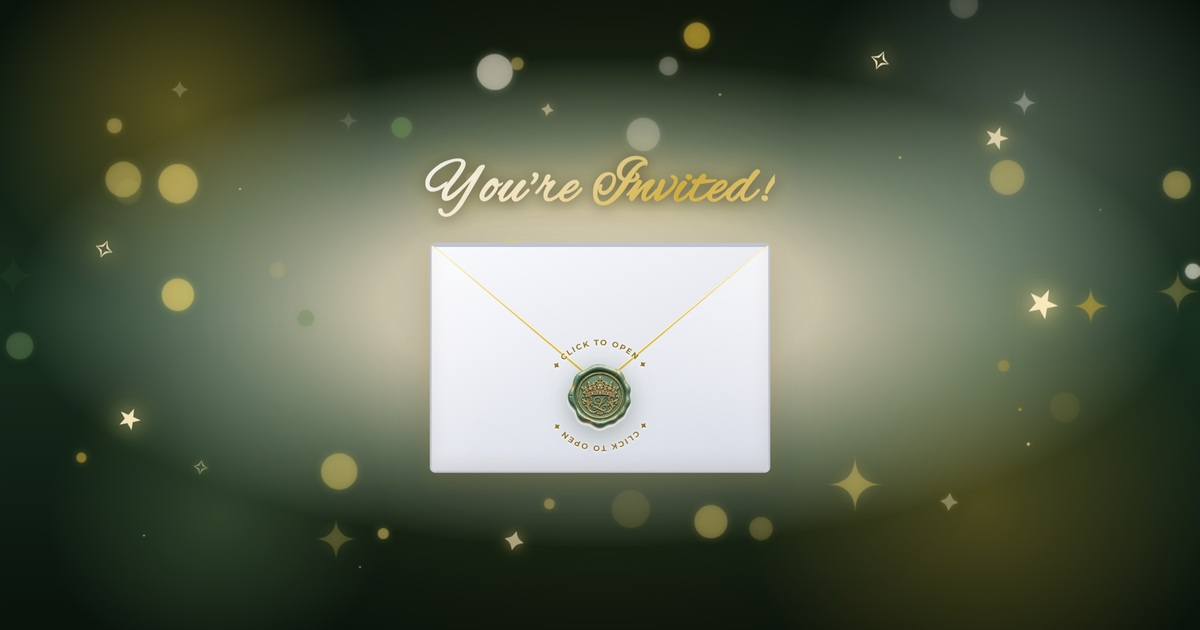
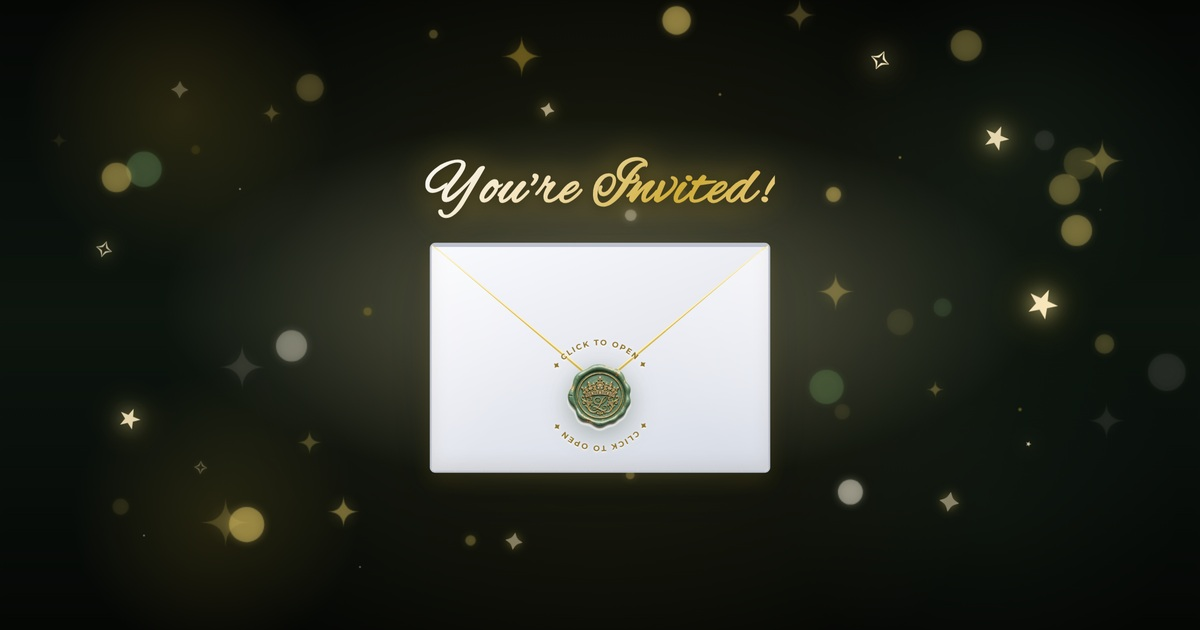
Darken landing page background closer to black with warm gold bokeh and update OG preview

diff --git a/dianalucero/style.css b/dianalucero/style.css
@@ -2915,17 +2915,17 @@ body.site-entered .site-footer p {
   align-items: center !important;
   justify-content: center !important;
   overflow: hidden !important;
-  background-color: #0c1810 !important;
+  background-color: #070b08 !important;
   background-image:
-    /* Luminous warm champagne & candle glow halo behind the envelope */
-    radial-gradient(ellipse 65% 52% at 50% 48%, rgba(255, 250, 238, 0.95) 0%, rgba(247, 236, 215, 0.78) 28%, rgba(207, 223, 197, 0.40) 52%, transparent 75%),
-    /* Shimmering warm golden & sage gala bokeh spheres */
-    radial-gradient(circle 280px at 15% 18%, rgba(212, 175, 55, 0.38) 0%, transparent 70%),
-    radial-gradient(circle 320px at 85% 22%, rgba(207, 223, 197, 0.32) 0%, transparent 70%),
-    radial-gradient(circle 240px at 18% 82%, rgba(104, 138, 88, 0.35) 0%, transparent 70%),
-    radial-gradient(circle 340px at 82% 80%, rgba(212, 175, 55, 0.30) 0%, transparent 70%),
-    /* Deep rich emerald and forest velvet base gradient */
-    linear-gradient(180deg, #09120b 0%, #112015 25%, #182e1e 50%, #112015 75%, #09120b 100%) !important;
+    /* Focused gentle warm champagne aura right behind the envelope */
+    radial-gradient(ellipse 52% 42% at 50% 48%, rgba(255, 248, 235, 0.28) 0%, rgba(245, 230, 205, 0.14) 38%, transparent 70%),
+    /* Subtle warm gold & very gentle dark sage bokeh accents */
+    radial-gradient(circle 240px at 15% 18%, rgba(212, 175, 55, 0.16) 0%, transparent 65%),
+    radial-gradient(circle 280px at 85% 22%, rgba(104, 138, 88, 0.10) 0%, transparent 65%),
+    radial-gradient(circle 220px at 18% 82%, rgba(212, 175, 55, 0.14) 0%, transparent 65%),
+    radial-gradient(circle 300px at 82% 80%, rgba(85, 114, 71, 0.08) 0%, transparent 65%),
+    /* Deep midnight black base with a subtle dark forest undertone */
+    linear-gradient(180deg, #050705 0%, #0a100c 30%, #0d150e 50%, #0a100c 70%, #050705 100%) !important;
   transition: opacity 0.85s cubic-bezier(0.2, 0.9, 0.3, 1), transform 0.85s cubic-bezier(0.2, 0.9, 0.3, 1), visibility 0.85s !important;
 }
 
@@ -2943,7 +2943,7 @@ body.site-entered .site-footer p {
     radial-gradient(circle 1.5px at 12% 85%, rgba(255, 245, 220, 0.75) 0%, transparent 100%),
     radial-gradient(circle 2px at 60% 15%, rgba(245, 215, 110, 0.8) 0%, transparent 100%),
     radial-gradient(circle 1.5px at 30% 90%, rgba(207, 223, 197, 0.8) 0%, transparent 100%);
-  opacity: 0.85;
+  opacity: 0.65;
   z-index: 1;
 }
 

diff --git a/dianalucero/main.js b/dianalucero/main.js
@@ -924,10 +924,10 @@ document.addEventListener('DOMContentLoaded', () => {
       bokehs.push({
         x: Math.random() * ambWidth,
         y: Math.random() * ambHeight,
-        radius: Math.random() * 16 + 5,
-        speedY: (Math.random() * 0.22 + 0.06),
-        speedX: (Math.random() - 0.5) * 0.22,
-        baseAlpha: Math.random() * 0.4 + 0.15,
+        radius: Math.random() * 15 + 4,
+        speedY: (Math.random() * 0.20 + 0.05),
+        speedX: (Math.random() - 0.5) * 0.20,
+        baseAlpha: Math.random() * 0.28 + 0.10,
         twinklePhase: Math.random() * Math.PI * 2,
         twinkleSpeed: Math.random() * 0.04 + 0.015,
         isStar: Math.random() > 0.65,
@@ -935,7 +935,7 @@ document.addEventListener('DOMContentLoaded', () => {
           ? '245, 215, 110' // Warm Champagne Gold
           : (Math.random() > 0.5
             ? '255, 248, 230' // Starlight Warm White
-            : (Math.random() > 0.4 ? '212, 175, 55' : '104, 138, 88')) // Liquid Gold & Sage
+            : (Math.random() > 0.35 ? '212, 175, 55' : '85, 115, 75')) // Liquid Gold & Muted Olive
       });
     }
 

diff --git a/dianalucero/index.html b/dianalucero/index.html
@@ -44,7 +44,7 @@
     href="https://fonts.googleapis.com/css2?family=Alex+Brush&family=Cormorant+Garamond:ital,wght@0,400;0,500;0,600;0,700;1,400&family=Montserrat:wght@300;400;500;600;700&family=Playfair+Display:ital,wght@0,400;0,600;0,700;1,400&display=swap"
     rel="stylesheet">
 
-  <link rel="stylesheet" href="style.css?v=9.5.6" />
+  <link rel="stylesheet" href="style.css?v=9.5.7" />
 </head>
 
 <body>
@@ -1004,7 +1004,7 @@
     <p class="footer-date" data-i18n="footer-date">Saturday, January 9, 2027</p>
   </footer>
 
-  <script src="main.js?v=9.4.8"></script>
+  <script src="main.js?v=9.4.9"></script>
 </body>
 
 </html>
